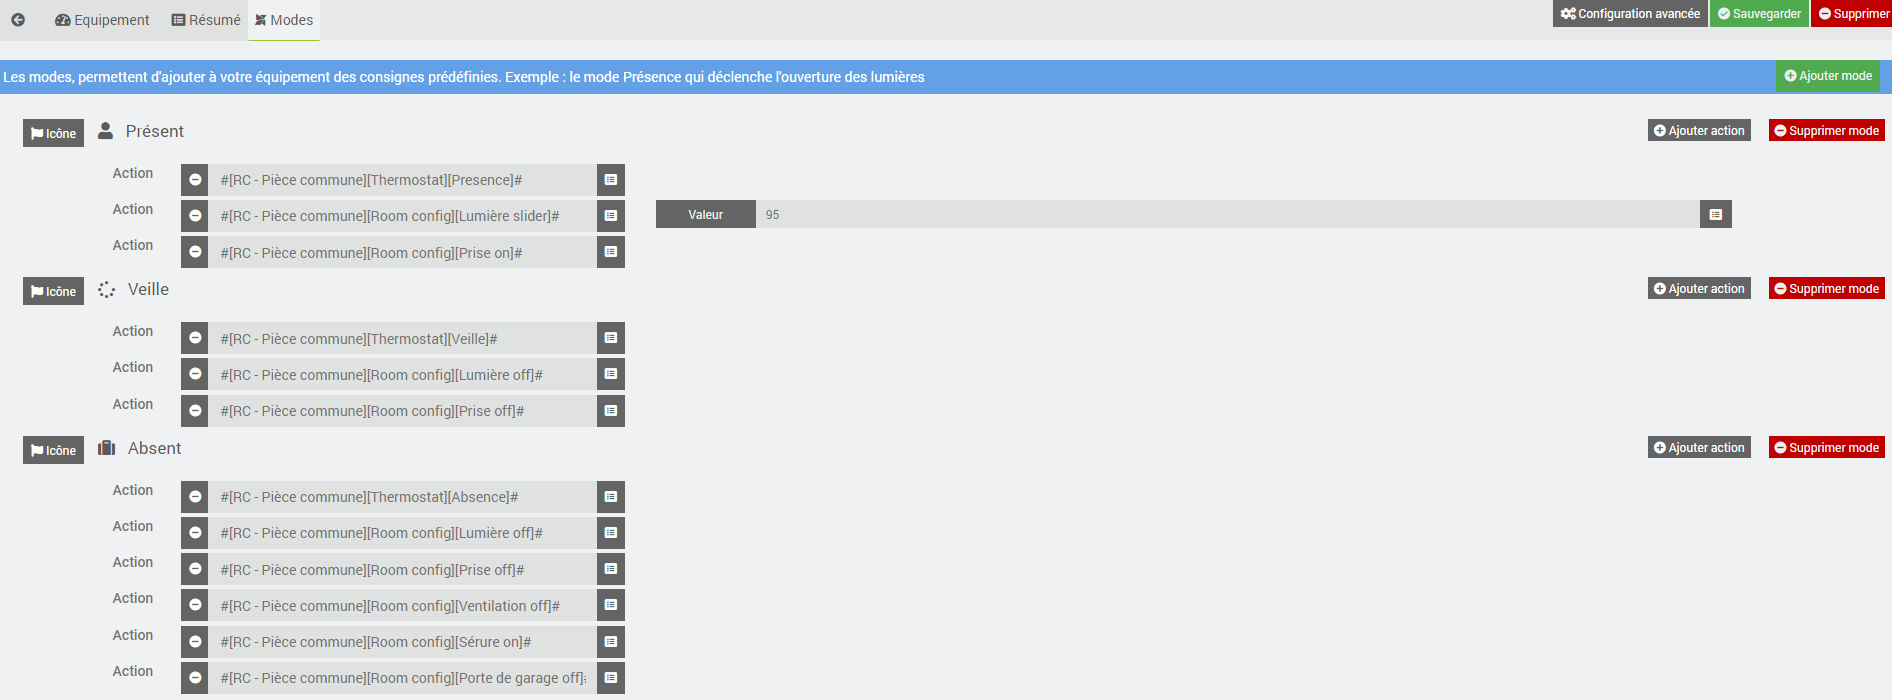
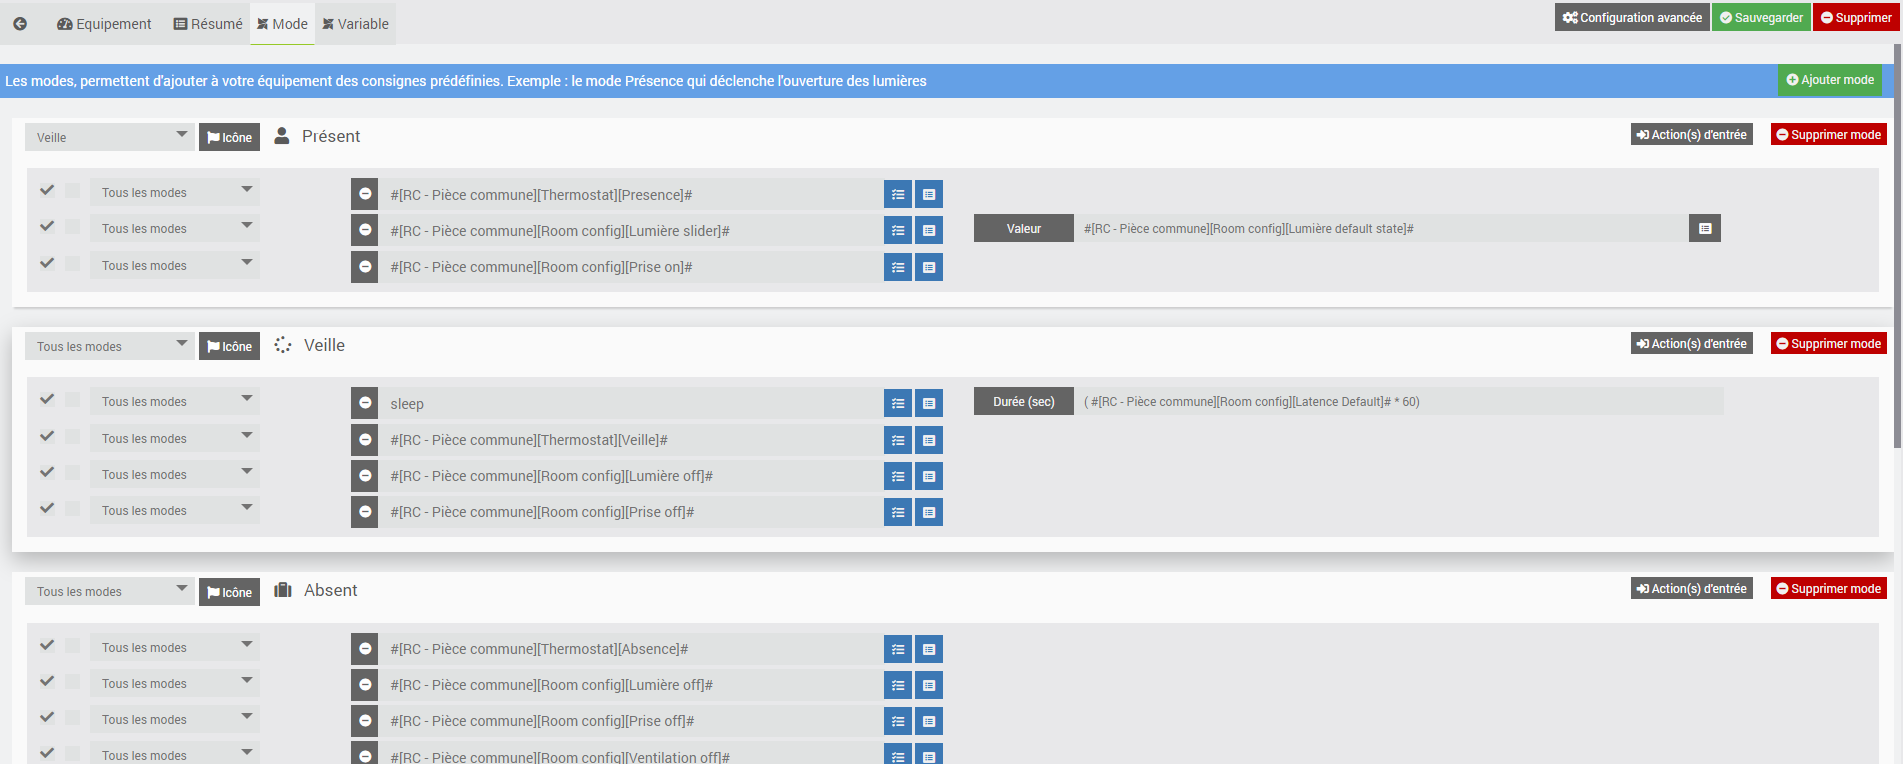
new version

diff --git a/genericTypeManager/fr_FR/index.md b/genericTypeManager/fr_FR/index.md
@@ -15,21 +15,24 @@ pluginId: genericTypeManager
 Plugins pour gérer vos commandes via leur type générique de manière dynamique. Il se présente de la même manière que les sommaires des objets à la différence que les commandes sont ajouté automatique à l'équipement si celle-ci fait partie de son objet parent ou de l'un de ces enfants. Une fois fait, il vous donnera ces possibilités :
 * Créer une commande d'information qui regroupe toutes les commande d'un type générique.
 * Créer une commande d'action qui regroupe toutes les commande d'un type générique, par exemple, déverrouiller toutes les serrures extérieures.
+* Ajouter des modes à l'équipement avec des actions à exécuter
+* Ajouter des actions aux changements d'une commande d'information.
+* Ajouter de variables pour prédéterminer certaines valeurs.
 
 À venir dans les prochaines versions
-* Ajouter des modes à l'équipement avec des actions à exécuter
-* Ajouter des actions et conditions aux changements d'une valeur d'une commande d'information.
-* Ajouter des variables qui pourrons être relie aux conditions d'exécution d'une action.
-* Ajouter des exécutions de commande programmé
+* Ajouter des conditions à l'exécution d'une commande d'action.
+* Ajouter des exécutions de commande programmé.
 
-Ainsi en utilisant ce plugins pour gérer une pièce par exemple, il sera possible lors d'une détection de présence de passer au mode présent de l'équipement et d'exécuter l'ouverture des lumières à la condition que la luminosité soit plus petite qu'une valeur prédéterminée.
+Ainsi en utilisant ce plugins pour gérer une pièce par exemple, il sera possible lors: 
+* D'une détection de présence via une commande d'information d'exécuter l'action de passer au mode présent de l'équipement
+* Celui-ci exécutera l'ouverture des lumières à un pourcentage prédéterminée (variable) à la condition que la luminosité soit plus petite qu'une valeur prédéterminée (variable).
 
-Voici une partie de l'arborescence de mes objets auxquels je ferez référence lors de mes exemples.
+Voici une partie de l'arborescence de mes objets auxquels je ferai référence lors de mes exemples.
 
 ![Présentation1](../images/Présentation1.png)
 
 # Installation et Configuration du plugins
-Pour l'instant, le plugin ne requière pas d'information générique pour son fonctionnement. Par contre comme vous pouvez le constater deux crons peuvent être activé, elles servent à faire l'ajoute de nouvelle commande à l'équipement. Donc si vous ne prévoyez pas l'ajout de plusieurs équipements, vous pouvez désactiver celle qui roule aux cinq minutes. Une fois le plugin activé, on peut donc passer directement à la création d'un équipement.
+Pour l'instant, le plugin ne requière pas d'information générique pour son fonctionnement. Par contre comme vous pouvez le constater deux crons peuvent être activé, elles servent à faire l'ajoute de nouvelle commande à l'équipement de manière dynamique. Donc si vous ne prévoyez pas l'ajout de plusieurs équipements, vous pouvez désactiver celle qui roule aux cinq minutes. Une fois le plugin activé, on peut donc passer directement à la création d'un équipement.
 
 ![InstallationConfiguration1](../images/InstallationConfiguration1.png)
 
@@ -46,26 +49,32 @@ Sur cette page vous retrouvez la liste de vos équipements. Cliquez sur un équi
 
 ## Résumé
 
-Les résumé, permettent des informations ou actions global déterminé par le type générique configuré. Elle regroupera toutes les commandes possédant ce type générique sous l'onglet parent de l'équipement aissi que les objets enfant de celui-ci.
+Les résumés, permettent de regrouper des informations ou actions d'un type générique. Toutes les commandes possédant ce type générique sous l'onglet parent de l'équipement ainsi que les objets enfant de celui-ci seront automatiquement prit en considération.
 
-Lors de l'ajout d'un résumé, il vous sera demandé deux choses, le nom que vous voulez donner au résumé qui doit être unique pour l'équipement et le type générique désiré. Si vous voulez créer un résumé dont les commande ne figure pas dans l'objet parent de l'équipement ou l'un de ces enfants, vous pouvez simplement inscrire "NONE" ainsi le plugin de cherchera pas à associer de manier automatique des commandes à se résumer, se sera à vous de le faire manuellement.
+Lors de l'ajout d'un résumé, il vous sera demandé deux choses, le nom que vous voulez donner au résumé qui doit être unique pour l'équipement et le type générique désiré. Si vous voulez créer un résumé dont les commande ne figure pas dans l'objet parent de l'équipement ou l'un de ces enfants, vous pouvez simplement inscrire "NONE" ainsi le plugin ne cherchera pas à associer de manier automatique des commandes à se résumer, se sera à vous de le faire manuellement.
 * Général
-	* Nom : nom du résumé
-	* Icon : icon qui sera utilisé pour l'affichage du résumé sur le dashbord
-	* Type générique : le type gjnérique des commande qui doivent être inclut au résumé
-	* Authorisé : permet de rendre le résumé actif, dans le cas contraire, les valeurs de celui-ci seront remonté mais les actions associé à celui-ci ne seront pas exécuté.
-	* Affiché : permet de rendre visible le résumé sur le dashbord
-	* Affiché même si nulle : permet de rendre visible le résumé sur le dashbord même si aucune valeur n'est remonté
-	* Calcul : le type de calcul qui doit être effectué lors d'un changement de valeur d'une commande
-	* Unité : Unité de la mesure
-	* Méthode de comptage : Méthode de comptage, si ninaire est sélétionné, le résumé ajit comme un interrupteur (on , off)
+  * Nom : nom du résumé
+  * Icon : icône qui sera utilisé pour l'affichage du résumé sur le dashbord
+  * Type générique : le type générique des commande qui doivent être inclus au résumé
+  * Authorisé : permet de rendre le résumé actif, dans le cas contraire, les valeurs de celui-ci seront remonté, mais les actions associées à celui-ci ne seront pas exécuté.
+  * Affiché : permet de rendre visible le résumé sur le dashbord
+  * Affiché même si nulle : permet de rendre visible le résumé sur le dashbord même si aucune valeur n'est remontée
+  * Calcul : le type de calcul qui doit être effectué lors d'un changement de valeur d'une commande
+  * Unité : Unité de la mesure
+  * Méthode de comptage : Méthode de comptage, si binaire est sélectionné, le résumé agit comme un interrupteur (on , off)
 * Action sur la valeur du sommaire si
-	* Commande : liste des commandes qui affecte le résumé
-	* Activer : permet de rendre la commande active, dans le cas contraire elle n'afectera pas le résumé.
+  * Commande : liste des commandes qui affecte le résumé
+  * Activer : permet de rendre la commande active, dans le cas contraire, elle n'affectera pas le résumé.
+* Action à effectuer si déclenché
+  * Commande : liste des commandes à déclencher
+  * Activer : permet de rendre la commande active, dans le cas contraire, elle ne sera pas déclenché.
+* Action à effectuer si dé-enclenché
+  * Commande : liste des commandes à déclencher
+  * Activer : permet de rendre la commande active, dans le cas contraire, elle ne sera pas déclenché.
 
-> Pour des exemples d'application de différent type générique, voir "Exemple de différent type générique".
-> Comme mon installation domotique évolue et que ce plugin va disposer prochainement d'une option pour le dupliquer ainsi qu'une option pour appliquer sa configuration sur un autre équipement, j'ajoute à l'équipement tous les sommaires dont je pense avoir besoin dans l'une ou l'autre de mes pièces ce qui me donne ceci au finale.
 
+> Pour des exemples d'application de différents types générique, voir "Exemple de différents types générique".
+> Comme mon installation domotique évolue et que ce plugin va disposer prochainement d'une option pour le dupliquer ainsi qu'une option pour appliquer sa configuration sur un autre équipement, j'ajoute à l'équipement tous les sommaires dont je pense avoir besoin dans l'une ou l'autre de mes pièces ce qui me donne ceci au final.
 ![Resume1](../images/Resume1.png)
 ![Resume2](../images/Resume2.png)
 
@@ -77,14 +86,10 @@ Vous pouvez, pour une meilleure visualisation, configurer une icône à celui-ci
 
 ## Variable
 Les variables, permettent de sauvegarder des valeurs qui pourront être utilisé ou modifié par la suite dans un scénario ou un mode. Par exemple, dans l'exemple illustré, j'utilise "Light Default Power" pour configurer la puissance de smes lumiere lors de leur ouverture et celle-ci est modifier selon la période de la journée.
-
 ![Variable1](../images/Variable1.png)
 
-Une fois configurées, elles peuvent être visualisées sur le dashbord en cliquant sur le "I" en haut à droite de l'icône.
-
+Une fois configurées, elles peuvent être visualisées sur le dashbord en cliquant sur le "I" en haut à droite de la tuile.
 ![Variable2](../images/Variable2.png)
-
-
 
 # Exemple
 
@@ -92,14 +97,14 @@ Une fois configurées, elles peuvent être visualisées sur le dashbord en cliqu
 Voici la configuration des équipements qui s'applique à toutes mes pièces internes qui me servent à les contrôler, dans ce cas, la pièce "RC - Pièce commune" qui est une pièce a aire ouverte incluant trois pièces distincte "RC - Sallon, RC - Salle à manger et RC - Cuisine". Ces trois pièces disposent de capteur de mouvements, luminosité et ouverture de porte et d'actionneur de lumières.
 
 ## NONE
-Pour être en mesure de mettre mes pièces en mode "Veille" ou "Absence", je calcule le maximum de deux valeurs que possède chacun des profils de la maison soit (Present ou Proximité). Donc si une seule de ces valeurs binaire est à un, le sommaire résultat de résumé sera à 1. Mais comme ces commandes ne sont pas dans l'objet parent de l'équipement ou l'un de ces enfants, j'ai ajouté chacune des commandes manuellement. Éventuellement, j'ajouterais la possibilité de spécifier l'objet parent du résumé et dans ce cas, j'aurais appliqué l'objet "Profil", ainsi, je n'aurais plus l'obligation d'ajouter les commandes manuellement, pour l'instant l'objet parent du sommaire est le même que celui de l'équipement courant.
+Pour être en mesure de mettre mes pièces en mode "Veille" ou "Absence", je calcule le maximum de deux valeurs que possède chacun des profils de la maison soit (Present ou Proximité). Donc si une seule de ces valeurs binaire est à un, le sommaire résultat de résumé sera à 1. Mais comme ces commandes ne sont pas dans l'objet parent de l'équipement ou l'un de ces enfants, j'ai ajouté chacune des commandes manuellement. 
 ![RésuméNone](../images/RésuméNone.png)
 
-Sur le dashbord l'équipement a donc cette apparence et vous pouvez voir l'icône configurée dans le sommaire du résumé au niveau de la bande supérieure de la tuile de l'équipement puisqu'il s'agit d'une information. 
+Sur le dashbord l'équipement a donc cette apparence et vous pouvez voir l'icône configurée dans le sommaire du résumé au niveau de la bande supérieure de la tuile de l'équipement puisqu'il s'agit d'une information sans possibilitée d'action. 
 ![DashbordNone](../images/DashbordNone.png)
 
 ## Type générique sans actionneur
-Un type générique sans actionneur est un type générique associé à une commande qui n'ont aucune commande d'action relié à celle-ci.
+Un type générique sans actionneur est un type générique associé à des commandes qui n'ont aucune commande d'action relié à celle-ci.
 
 Pour être en mesure de mettre mes pièces en mode "Présent", j'ajoute un sommaire qui regroupe mes capteurs de présence. Donc je choisis comme type générique "Présence", je spécifie les bonnes informations générales et je sauvegarde mes modifications. Normalement, une fois, ceci fait vous devriez voir apparaître dans "Action sur la valeur du sommaire si" les commandes contenue sous l'objet parent ou l'un de ces enfants qui ont ce type générique. 
 ![RésuméInfo](../images/RésuméInfo.png)
@@ -108,16 +113,14 @@ Sur le dashbord l'équipement à donc maintenant cette apparence et vous pouvez 
 ![DashbordInfo](../images/DashbordInfo.png)
 
 ## Type générique avec actionneur
-Un type générique avec actionneur est un type générique associé à une commande qui ont des commandes d'action relié à celle-ci.
+Un type générique avec actionneur est un type générique associé à des commandes qui ont des commandes d'action relié à celle-ci.
 
 Pour être en mesure d'ouvrir les lumières de ma pièce, j'ajoute donc un sommaire qui regroupe les commande me donnant l'état de mes lumière. Donc je choisis comme type générique "Lumière état", je spécifie les bonnes informations générales et je sauvegarde mes modifications. Normalement, une fois, ceci fait vous devriez voir apparaître dans "Action sur la valeur du sommaire si" les commandes contenue sous l'objet parent ou l'un de ces enfants qui ont ce type générique. 
 ![RésuméAction](../images/RésuméAction.png)
 
 Sur le dashbord l'équipement a donc maintenant cette apparence et vous pouvez voir l'icône configurée dans le sommaire du résumé au niveau de la bande inférieur de la tuile de l'équipement puisqu'il s'agit d'une action.
-Si aucune icône n'est configuré celui par défaut sera utilisé, voici deux ememple, un avec l'icône par défaut et le second avec l'icône configuré. Il sont engrisé lorsqu'il ne sont pas actifs :
-
+De plus vous disposer dans l'équipement d'une commande pour configurer la valeur par défaut lors de l'activation de l'équipement
 ![DashbordAction1](../images/DashbordAction1.png)
-![DashbordAction2](../images/DashbordAction2.png)
 
 # FAQ
 Pour toute question ou problème, écrivez-moi au fobsoft@gmail.com 

diff --git a/genericTypeManager/fr_FR/changelog.md b/genericTypeManager/fr_FR/changelog.md
@@ -6,10 +6,16 @@ pluginId: genericTypeManager
 ---
 
 <div id="title">
-<a href="../../../{{site.baseurl}}/{{page.pluginId}}/{{page.lang}}">Plugin {{page.pluginId}}</a>
+<a href="../../../{{site.baseurl}}/{{page.pluginId}}/{{page.lang}}">Plugin {{page.title}}</a>
 </div>
 
 # Stable
-## 25/12/2021
+## 2021/12/25
 - Création du plugin
 - Première phase, permettre la configuration de base des types génériques
+
+# Beta
+## 2022/01/10
+- Ajouter des modes à l'équipement avec des actions à exécuter
+- Ajouter des actions aux changements d'une commande d'information.
+- Ajouter de variables.
